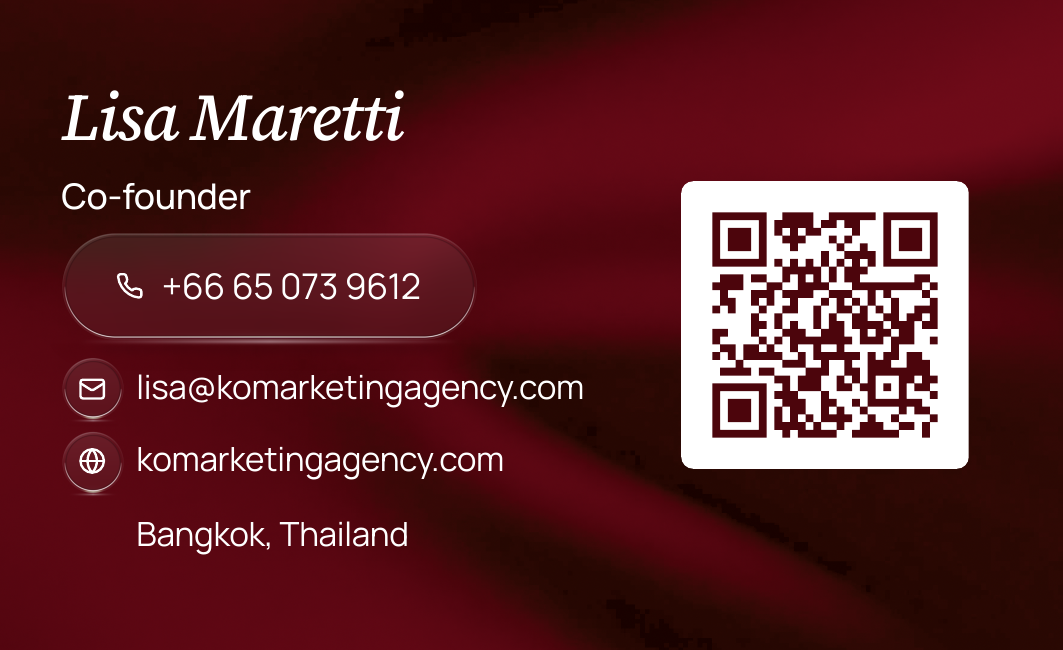
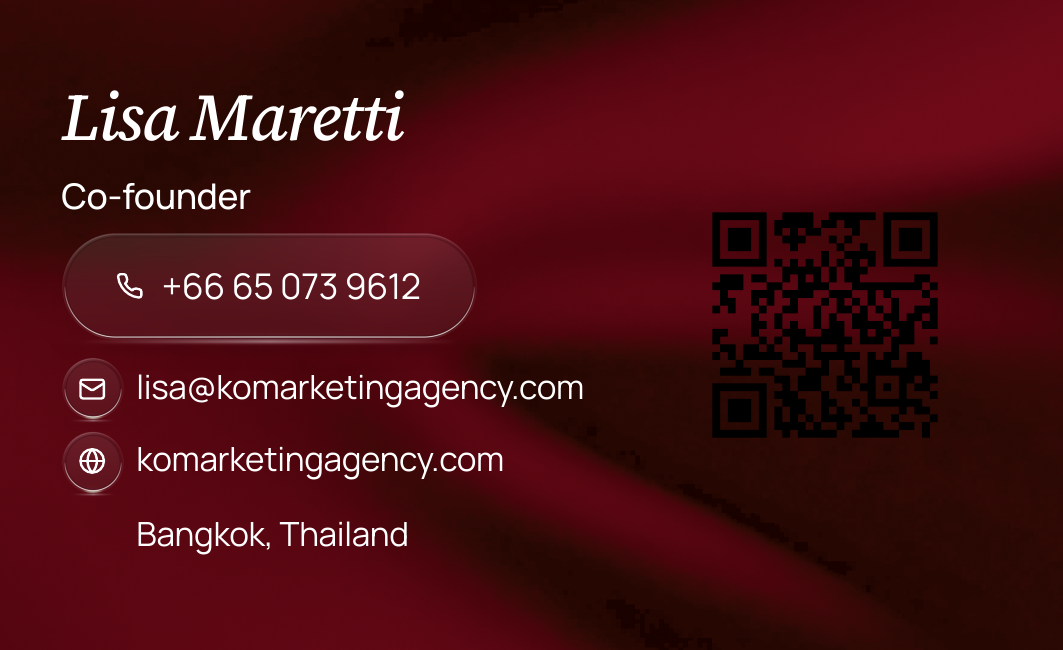
Set the QR modules to black on the satin.
The white tile is gone. Modules are #000000 and the cloth shows through the quiet zone. The symbol stays 24.2 mm and centered with the left column.

Changed region(s): [[0.6209, 0.2769, 0.9313, 0.7385]]

diff --git a/brand/business-cards/cards.html b/brand/business-cards/cards.html
@@ -13,7 +13,7 @@
     icons sit in matching circular glass badges, also baked. The left column
     is one group: its cap line and the address descender are equally inset
     from the 55 mm trim, and the QR is centered on that same axis. The QR is
-    burgundy modules on an opaque white tile with a 1 mm corner radius.
+    black modules on the satin, with no tile.
     Logo, type, icon, and QR are vectors. No opacity, masks, or blend modes.
   -->
   <style>

diff --git a/brand/business-cards/build_assets.py b/brand/business-cards/build_assets.py
@@ -16,11 +16,10 @@ ASSETS = ROOT / "assets"
 DPI = int(os.environ.get("CARD_DPI", "600"))
 
 # Millimetres from the bleed origin. cards.html uses the same numbers.
-# The symbol includes a 4-module quiet zone. A white tile fills that zone;
-# the modules are logo burgundy. Bleed millimetres.
+# The symbol includes a 4-module quiet zone. Black modules sit on the satin;
+# the quiet zone and the gaps are the cloth itself. Bleed millimetres.
 QR_SYMBOL = (60.7, 18.465, 24.2, 24.2)
 QR_QUIET_MODULES = 4
-QR_TILE_RADIUS = 1.0
 # Front. Bleed coordinates. The wordmark is 56 mm wide and centered. The tagline stays lower left.
 FRONT_LOGO = (20.0, 23.94, 56.0, 13.13)
 FRONT_TAG = (13.0, 47.05, 17.6, 6.0)
@@ -621,12 +620,7 @@ def trace_wordmark():
 
 
 def build_qr_svg():
-    """Burgundy modules on an opaque white tile.
-
-    The tile is the symbol box. Its 4-module margin is the quiet zone, which
-    is more than the 2 modules required. The corner radius is 1 mm at the
-    placed size. Both fills are solid: no opacity, mask, or blend.
-    """
+    """Black modules only. The satin is the quiet zone and the gaps."""
     qr = segno.make("https://komarketingagency.com", error="q")
     modules = list(qr.matrix_iter(scale=1, border=QR_QUIET_MODULES))
     n = len(modules)
@@ -642,12 +636,10 @@ def build_qr_svg():
                 x1 += 1
             parts.append(f"M{x} {yy}h{x1 - x}v1h-{x1 - x}z")
             x = x1
-    radius = QR_TILE_RADIUS / (QR_SYMBOL[2] / n)
     svg = (
         f'<svg xmlns="http://www.w3.org/2000/svg" viewBox="0 0 {n} {n}" '
         f'width="{n}" height="{n}">'
-        f'<rect width="{n}" height="{n}" rx="{radius:.4f}" ry="{radius:.4f}" fill="#ffffff"/>'
-        f'<path fill="#4c050c" d="{"".join(parts)}"/>'
+        f'<path fill="#000000" d="{"".join(parts)}"/>'
         f"</svg>"
     )
     (ASSETS / "qr.svg").write_text(svg)
@@ -757,14 +749,22 @@ def main():
     tile_right = sx + ss
     trim_right = 93.0
     clearance = trim_right - tile_right
+    qx0, qy0, qw, qh = (int(round(px(v))) for v in (sx, sy, ss, ss))
+    ground = back[qy0:qy0 + qh, qx0:qx0 + qw].reshape(-1, 3)
+    light = ground[int(np.argmax(np.apply_along_axis(rel_lum, 1, ground)))]
+    black_ratio = (rel_lum(light) + 0.05) / 0.05
     print(
-        f"qr tile {ss:.2f}mm quiet {QR_QUIET_MODULES} modules ({quiet:.2f}mm) "
-        f"radius {QR_TILE_RADIUS:.2f}mm right clearance {clearance:.2f}mm"
+        f"qr symbol {ss:.2f}mm quiet {QR_QUIET_MODULES} modules ({quiet:.2f}mm) "
+        f"right clearance {clearance:.2f}mm"
+    )
+    print(
+        f"qr black vs lightest satin {light.round(1)} {_hex(light)} "
+        f"contrast {black_ratio:.2f}:1"
     )
     if QR_QUIET_MODULES < 2:
         raise SystemExit("QR quiet zone is under 2 modules")
     if clearance < 3.0:
-        raise SystemExit(f"QR tile is {clearance:.2f}mm from the trim, under the 3 mm safe zone")
+        raise SystemExit(f"QR symbol is {clearance:.2f}mm from the trim, under the 3 mm safe zone")
     measure_cloth(back)
     save_rgb(ASSETS / "back-bg.png", back)
     data_mm = data_box[2]
